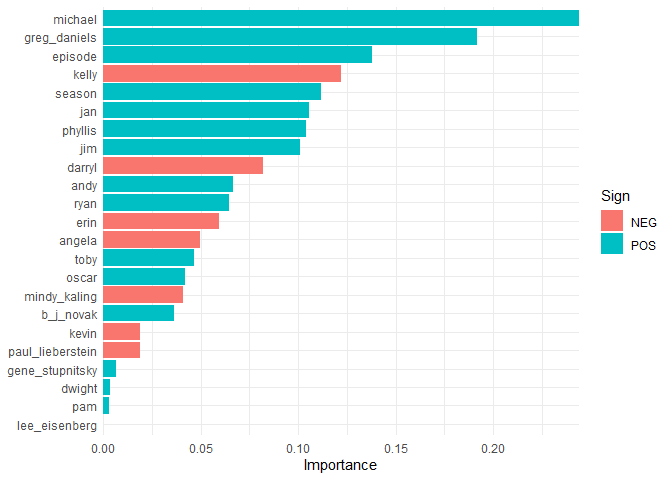
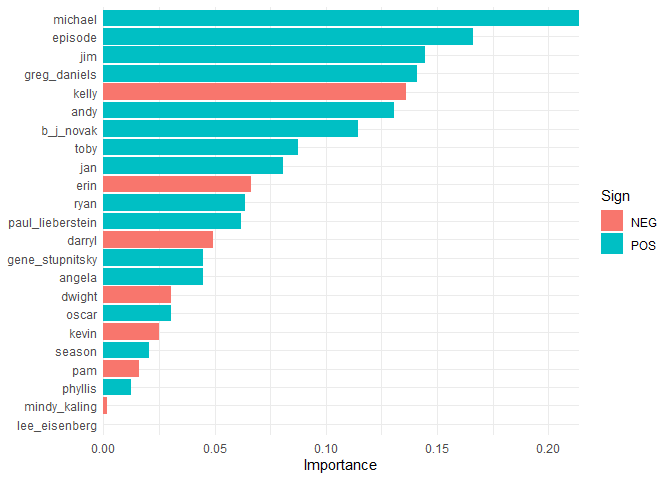
TheOffice.spelling

diff --git a/TheOffice/TheOffice.md b/TheOffice/TheOffice.md
@@ -127,7 +127,7 @@ office_ratings %>%
 To merge the datasets on episode, we have to clean the ratings file
 field by removing punctuation, digits, the words “part” and “parts”, and
 make all text lower case. Even after cleaning, three episode titles have
-to be manually imputed with a case\_when statement to succefully join
+to be manually imputed with a case\_when statement to successfully join
 every episode rating with the text of the episode.
 
 ``` r
@@ -143,10 +143,10 @@ office_ratings <- office_ratings %>%
 
 office_ratings <- office_ratings %>%
   mutate(episode_name = case_when(
-      episode_name == "email surveillance" ~ "email surveilance",
-      episode_name == "coverup" ~ "cover",
-      episode_name == "sex ed" ~ "sx ed",
-      TRUE ~ episode_name))
+    episode_name == "email surveillance" ~ "email surveilance",
+    episode_name == "coverup" ~ "cover",
+    episode_name == "sex ed" ~ "sx ed",
+    TRUE ~ episode_name))
 
 office_info <- schrute::theoffice %>%
   mutate(
@@ -247,7 +247,7 @@ character_tf_idf %>%
   labs(title = "Dwight's Lines in The Office",
        subtitle = "Highest Tf-IDF words", 
        caption = paste0("Jim Gruman ", Sys.Date()))+
-    theme(plot.title.position = "plot")
+  theme(plot.title.position = "plot")
 ```
 
 ![](TheOffice_files/figure-gfm/unnamed-chunk-6-1.png)<!-- -->
@@ -263,7 +263,7 @@ character_tf_idf %>%
   labs(title = "Jim's Lines in The Office",
        subtitle = "Highest Tf-IDF words", 
        caption = paste0("Jim Gruman ", Sys.Date()))+
-    theme(plot.title.position = "plot")
+  theme(plot.title.position = "plot")
 ```
 
 ![](TheOffice_files/figure-gfm/unnamed-chunk-6-2.png)<!-- -->
@@ -284,7 +284,7 @@ character_tf_idf %>%
        subtitle = "Words most specific to a character", 
        caption = paste0("Jim Gruman ", Sys.Date()),
        x="", y="TF-IDF of character-word pairs")+
-    theme(plot.title.position = "plot")
+  theme(plot.title.position = "plot")
 ```
 
 ![](TheOffice_files/figure-gfm/unnamed-chunk-6-3.png)<!-- -->
@@ -372,7 +372,7 @@ office <- office_info %>%
   inner_join(characters) %>%
   inner_join(creators) %>%
   inner_join(office_ratings %>%
-    select(episode_name, imdb_rating)) %>%
+               select(episode_name, imdb_rating)) %>%
   janitor::clean_names()
 ```
 
@@ -418,7 +418,7 @@ office %>%
        subtitle = "IMDB, by episode, across all seasons", 
        caption = paste0("Jim Gruman ", Sys.Date()),
        x="", y="IMDB Rating")+
-    theme(plot.title.position = "plot")
+  theme(plot.title.position = "plot")
 ```
 
 ![](TheOffice_files/figure-gfm/unnamed-chunk-10-1.png)<!-- -->
@@ -487,20 +487,20 @@ lasso_fit %>%
   tidy()
 ```
 
-    ## # A tibble: 1,112 x 5
+    ## # A tibble: 1,246 x 5
     ##    term         step estimate lambda dev.ratio
     ##    <chr>       <dbl>    <dbl>  <dbl>     <dbl>
-    ##  1 (Intercept)     1   8.46    0.207    0     
-    ##  2 (Intercept)     2   8.46    0.189    0.0317
-    ##  3 michael         2   0.0185  0.189    0.0317
-    ##  4 (Intercept)     3   8.46    0.172    0.0581
-    ##  5 michael         3   0.0355  0.172    0.0581
-    ##  6 (Intercept)     4   8.46    0.157    0.0957
-    ##  7 michael         4   0.0505  0.157    0.0957
-    ##  8 phyllis         4   0.0115  0.157    0.0957
-    ##  9 (Intercept)     5   8.46    0.143    0.140 
-    ## 10 michael         5   0.0640  0.143    0.140 
-    ## # ... with 1,102 more rows
+    ##  1 (Intercept)     1   8.44    0.212    0     
+    ##  2 (Intercept)     2   8.44    0.193    0.0374
+    ##  3 michael         2   0.0190  0.193    0.0374
+    ##  4 (Intercept)     3   8.44    0.176    0.0685
+    ##  5 michael         3   0.0363  0.176    0.0685
+    ##  6 (Intercept)     4   8.44    0.160    0.0943
+    ##  7 michael         4   0.0520  0.160    0.0943
+    ##  8 (Intercept)     5   8.44    0.146    0.116 
+    ##  9 michael         5   0.0664  0.146    0.116 
+    ## 10 (Intercept)     6   8.44    0.133    0.133 
+    ## # ... with 1,236 more rows
 
 If you have used `glmnet` before, this is the familiar output where we
 can see (here, for the most regularized examples) the features that
@@ -553,16 +553,16 @@ lasso_grid %>%
     ## # A tibble: 80 x 6
     ##     penalty .metric .estimator  mean     n std_err
     ##       <dbl> <chr>   <chr>      <dbl> <int>   <dbl>
-    ##  1 1.00e-10 rmse    standard   0.571    25  0.0264
-    ##  2 1.00e-10 rsq     standard   0.210    25  0.0269
-    ##  3 1.80e-10 rmse    standard   0.571    25  0.0264
-    ##  4 1.80e-10 rsq     standard   0.210    25  0.0269
-    ##  5 3.26e-10 rmse    standard   0.571    25  0.0264
-    ##  6 3.26e-10 rsq     standard   0.210    25  0.0269
-    ##  7 5.88e-10 rmse    standard   0.571    25  0.0264
-    ##  8 5.88e-10 rsq     standard   0.210    25  0.0269
-    ##  9 1.06e- 9 rmse    standard   0.571    25  0.0264
-    ## 10 1.06e- 9 rsq     standard   0.210    25  0.0269
+    ##  1 1.00e-10 rmse    standard   0.535    25  0.0188
+    ##  2 1.00e-10 rsq     standard   0.113    25  0.0198
+    ##  3 1.80e-10 rmse    standard   0.535    25  0.0188
+    ##  4 1.80e-10 rsq     standard   0.113    25  0.0198
+    ##  5 3.26e-10 rmse    standard   0.535    25  0.0188
+    ##  6 3.26e-10 rsq     standard   0.113    25  0.0198
+    ##  7 5.88e-10 rmse    standard   0.535    25  0.0188
+    ##  8 5.88e-10 rsq     standard   0.113    25  0.0198
+    ##  9 1.06e- 9 rmse    standard   0.535    25  0.0188
+    ## 10 1.06e- 9 rsq     standard   0.113    25  0.0198
     ## # ... with 70 more rows
 
 That’s nice, but I would rather see a visualization of performance with
@@ -584,7 +584,7 @@ lasso_grid %>%
   theme(legend.position = "none")
 ```
 
-    ## Warning: Removed 2 row(s) containing missing values (geom_path).
+    ## Warning: Removed 3 row(s) containing missing values (geom_path).
 
 ![](TheOffice_files/figure-gfm/unnamed-chunk-17-1.png)<!-- -->
 
@@ -620,7 +620,7 @@ final_lasso
     ## Linear Regression Model Specification (regression)
     ## 
     ## Main Arguments:
-    ##   penalty = 0.0522334507426683
+    ##   penalty = 0.0942668455117885
     ##   mixture = 1
     ## 
     ## Computational engine: glmnet
@@ -669,5 +669,5 @@ last_fit(
     ## # A tibble: 2 x 3
     ##   .metric .estimator .estimate
     ##   <chr>   <chr>          <dbl>
-    ## 1 rmse    standard       0.426
-    ## 2 rsq     standard       0.306
+    ## 1 rmse    standard      0.546 
+    ## 2 rsq     standard      0.0542
